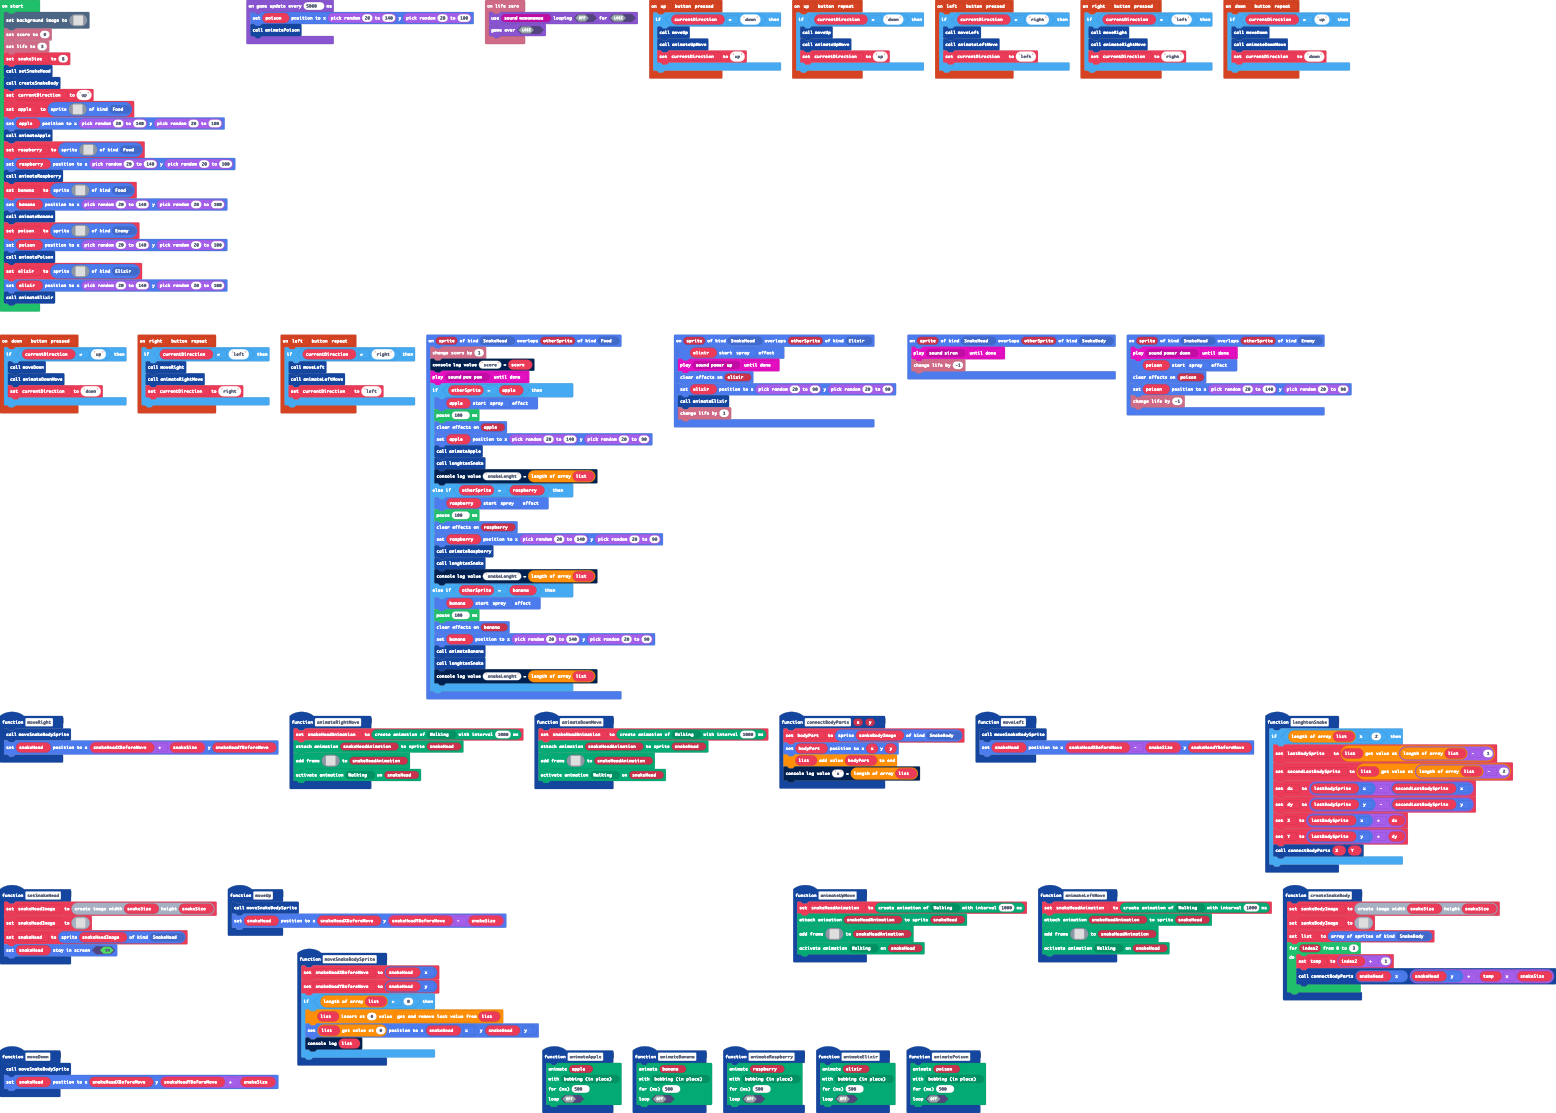
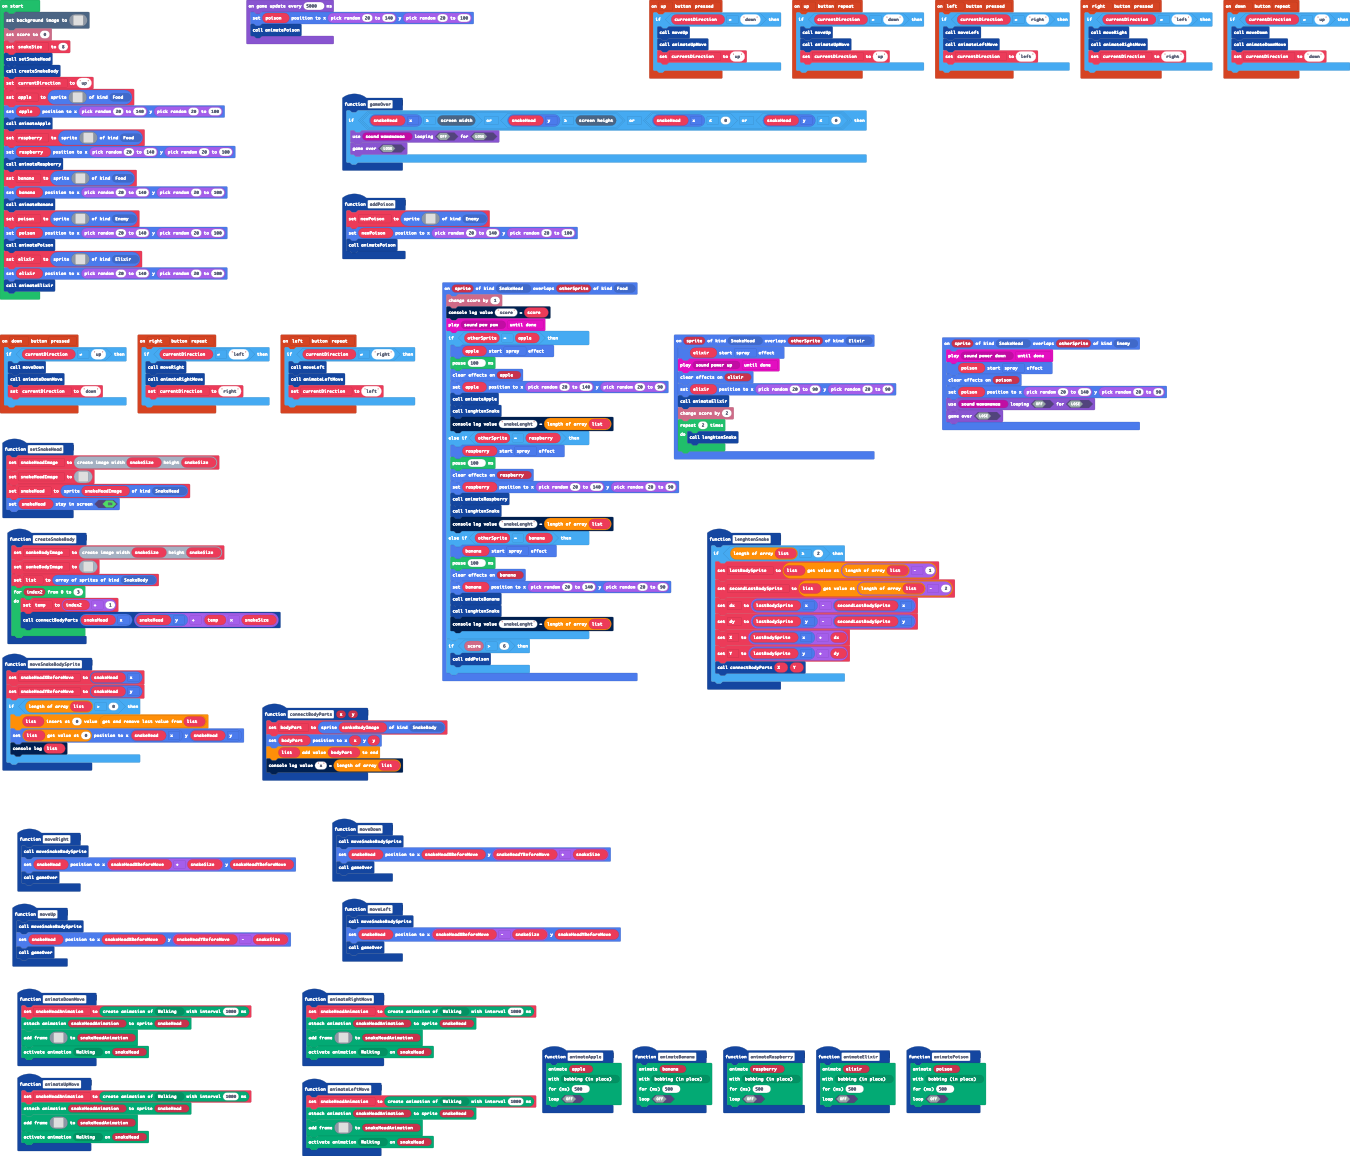
final

diff --git a/main.ts b/main.ts
@@ -26,6 +26,7 @@ controller.up.onEvent(ControllerButtonEvent.Pressed, function () {
 function moveRight () {
     moveSnakeBodySprite()
     snakeHead.setPosition(snakeHeadXBeforeMove + snakeSize, snakeHeadYBeforeMove)
+    gameOver()
 }
 function lenghtenSnake () {
     if (list.length >= 2) {
@@ -41,6 +42,7 @@ function lenghtenSnake () {
 function moveUp () {
     moveSnakeBodySprite()
     snakeHead.setPosition(snakeHeadXBeforeMove, snakeHeadYBeforeMove - snakeSize)
+    gameOver()
 }
 function moveSnakeBodySprite () {
     snakeHeadXBeforeMove = snakeHead.x
@@ -88,6 +90,9 @@ sprites.onOverlap(SpriteKind.SnakeHead, SpriteKind.Food, function (sprite, other
         lenghtenSnake()
         console.logValue("snakeLenght", list.length)
     }
+    if (info.score() > 6) {
+        addPoison()
+    }
 })
 controller.right.onEvent(ControllerButtonEvent.Repeated, function () {
     if (currentDirection != "left") {
@@ -124,6 +129,7 @@ function animateDownMove () {
 function moveDown () {
     moveSnakeBodySprite()
     snakeHead.setPosition(snakeHeadXBeforeMove, snakeHeadYBeforeMove + snakeSize)
+    gameOver()
 }
 function animateApple () {
     animation.runMovementAnimation(
@@ -154,6 +160,17 @@ function animatePoison () {
     false
     )
 }
+function addPoison () {
+    newPoison = sprites.create(assets.image`potion10`, SpriteKind.Enemy)
+    newPoison.setPosition(randint(20, 140), randint(20, 100))
+    animatePoison()
+}
+function gameOver () {
+    if (snakeHead.x >= scene.screenWidth() || snakeHead.y >= scene.screenHeight() || (snakeHead.x <= 0 || snakeHead.y <= 0)) {
+        game.setGameOverPlayable(false, music.melodyPlayable(music.wawawawaa), false)
+        game.gameOver(false)
+    }
+}
 controller.down.onEvent(ControllerButtonEvent.Repeated, function () {
     if (currentDirection != "up") {
         moveDown()
@@ -168,20 +185,12 @@ controller.down.onEvent(ControllerButtonEvent.Pressed, function () {
         currentDirection = "down"
     }
 })
-info.onLifeZero(function () {
-    game.setGameOverPlayable(false, music.melodyPlayable(music.wawawawaa), false)
-    game.gameOver(false)
-})
 function animateLeftMove () {
     snakeHeadAnimation = animation.createAnimation(ActionKind.Walking, 1000)
     animation.attachAnimation(snakeHead, snakeHeadAnimation)
     snakeHeadAnimation.addAnimationFrame(assets.image`snakeHeadLeft`)
     animation.setAction(snakeHead, ActionKind.Walking)
 }
-sprites.onOverlap(SpriteKind.SnakeHead, SpriteKind.SnakeBody, function (sprite, otherSprite) {
-    music.play(music.melodyPlayable(music.siren), music.PlaybackMode.UntilDone)
-    info.changeLifeBy(-1)
-})
 function setSnakeHead () {
     snakeHeadImage = image.create(snakeSize, snakeSize)
     snakeHeadImage = assets.image`snakeHeadUp`
@@ -200,13 +209,15 @@ function createSnakeBody () {
 function moveLeft () {
     moveSnakeBodySprite()
     snakeHead.setPosition(snakeHeadXBeforeMove - snakeSize, snakeHeadYBeforeMove)
+    gameOver()
 }
 sprites.onOverlap(SpriteKind.SnakeHead, SpriteKind.Enemy, function (sprite, otherSprite) {
     music.play(music.melodyPlayable(music.powerDown), music.PlaybackMode.UntilDone)
     poison.startEffect(effects.spray)
     effects.clearParticles(poison)
     poison.setPosition(randint(20, 140), randint(20, 90))
-    info.changeLifeBy(-1)
+    game.setGameOverPlayable(false, music.melodyPlayable(music.wawawawaa), false)
+    game.gameOver(false)
 })
 sprites.onOverlap(SpriteKind.SnakeHead, SpriteKind.Elixir, function (sprite, otherSprite) {
     elixir.startEffect(effects.spray)
@@ -214,7 +225,10 @@ sprites.onOverlap(SpriteKind.SnakeHead, SpriteKind.Elixir, function (sprite, oth
     effects.clearParticles(elixir)
     elixir.setPosition(randint(20, 90), randint(20, 90))
     animateElixir()
-    info.changeLifeBy(1)
+    info.changeScoreBy(2)
+    for (let index = 0; index < 2; index++) {
+        lenghtenSnake()
+    }
 })
 function animateBanana () {
     animation.runMovementAnimation(
@@ -241,6 +255,7 @@ function animateRaspberry () {
 }
 let temp = 0
 let snakeHeadImage: Image = null
+let newPoison: Sprite = null
 let sankeBodyImage: Image = null
 let bodyPart: Sprite = null
 let snakeHeadAnimation: animation.Animation = null
@@ -263,7 +278,6 @@ let currentDirection = ""
 let snakeSize = 0
 scene.setBackgroundImage(assets.image`background`)
 info.setScore(0)
-info.setLife(3)
 snakeSize = 8
 setSnakeHead()
 createSnakeBody()
